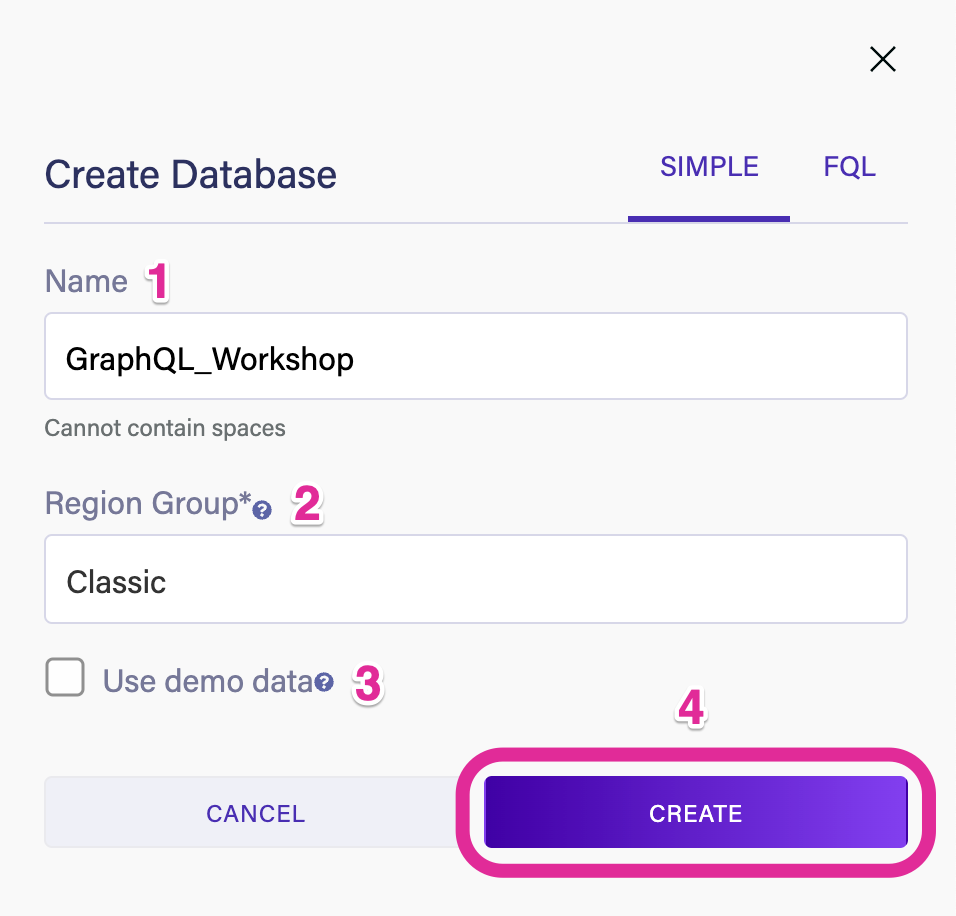
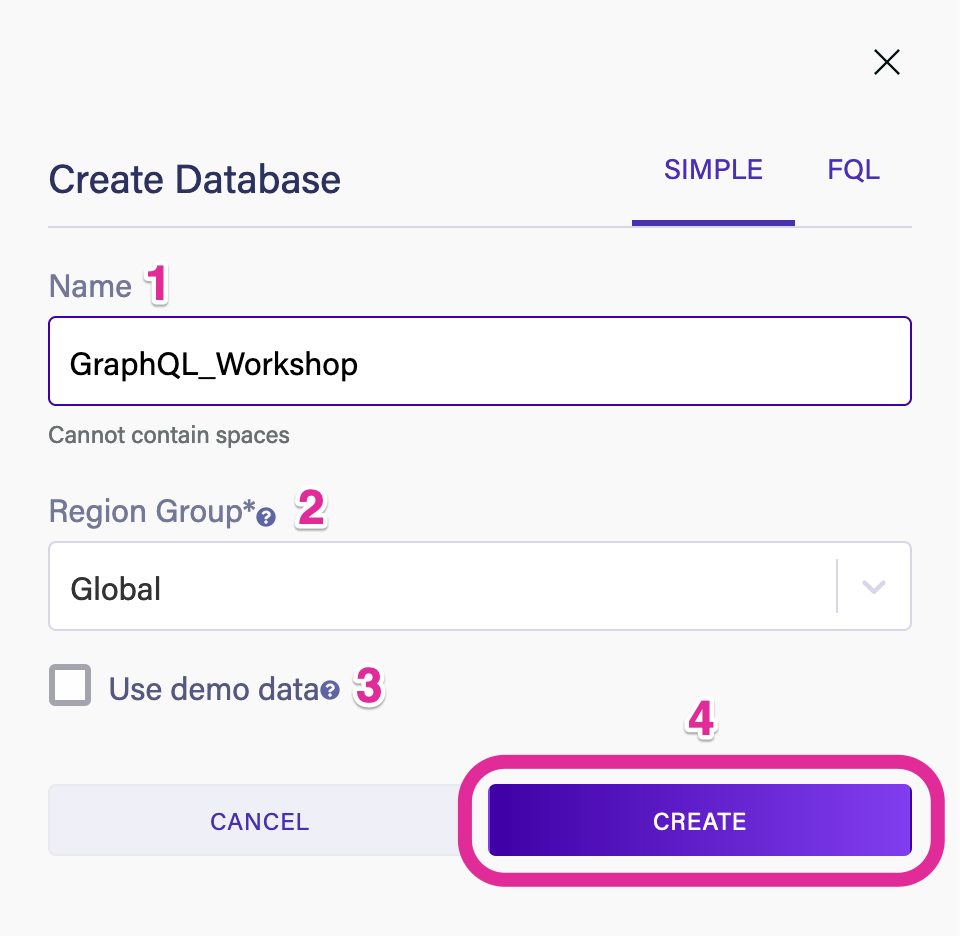
Updated Classic -> Global Region Group in 1.a.

diff --git a/content/getting-started/uploading-your-schema/index.md b/content/getting-started/uploading-your-schema/index.md
@@ -13,7 +13,7 @@ In this section you learn how to create a database and GraphQL service in Fauna.
 Navigate to the [Fauna Dashboard](https://dashboard.fauna.com/) in your browser and create a new database by choosing *Create Database*. Note the options shown in the following screenshot.
 
 1. **Name**: The name of your database, in this case `GraphQL_Workshop`. Database names cannot contain spaces or the *%* character and cannot be *events*, *sets*, *self*, *documents*, or *_* (the underscore character). You can change the name of your database at any time.
-1. **Region Group**: The [Region Group][region-groups] where you want to create your database. If you are unsure, choose *Classic* as shown in the screenshot. Note that you cannot change the Region Group of a database after creation!
+1. **Region Group**: The [Region Group][region-groups] where you want to create your database. If you are unsure, choose *Global* as shown in the screenshot. Note that you cannot change the Region Group of a database after creation!
 1. **Use demo data**: Whether to populate your database with demo data. Do not select this option for this workshop.
 1. **Create**: Choose the *Create* button to create your database.
 
